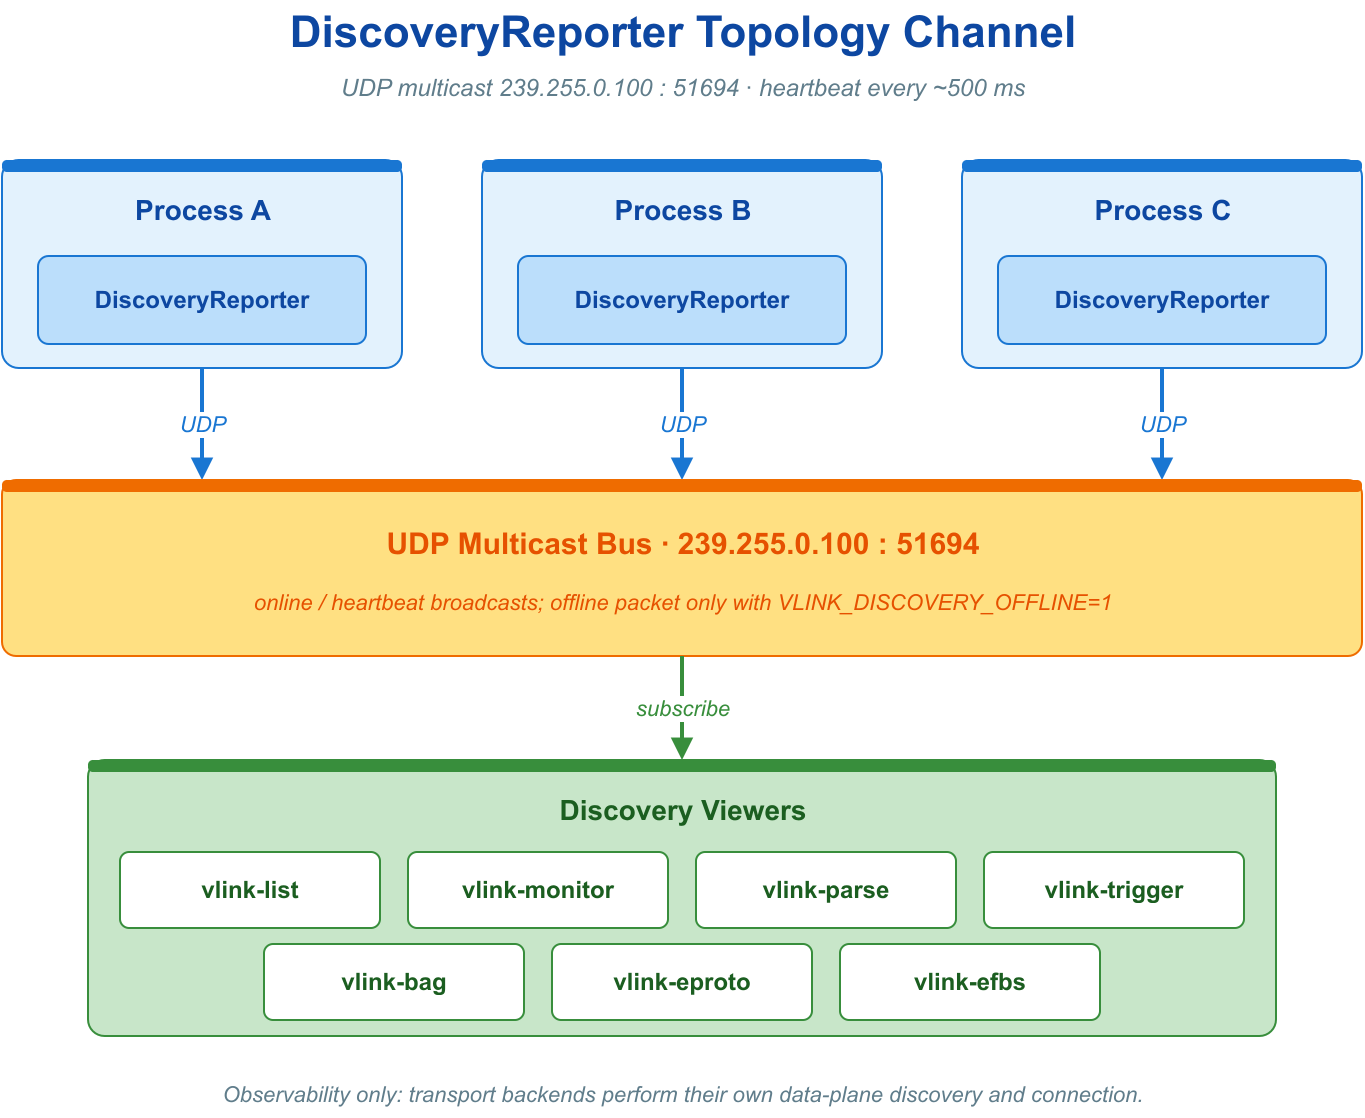
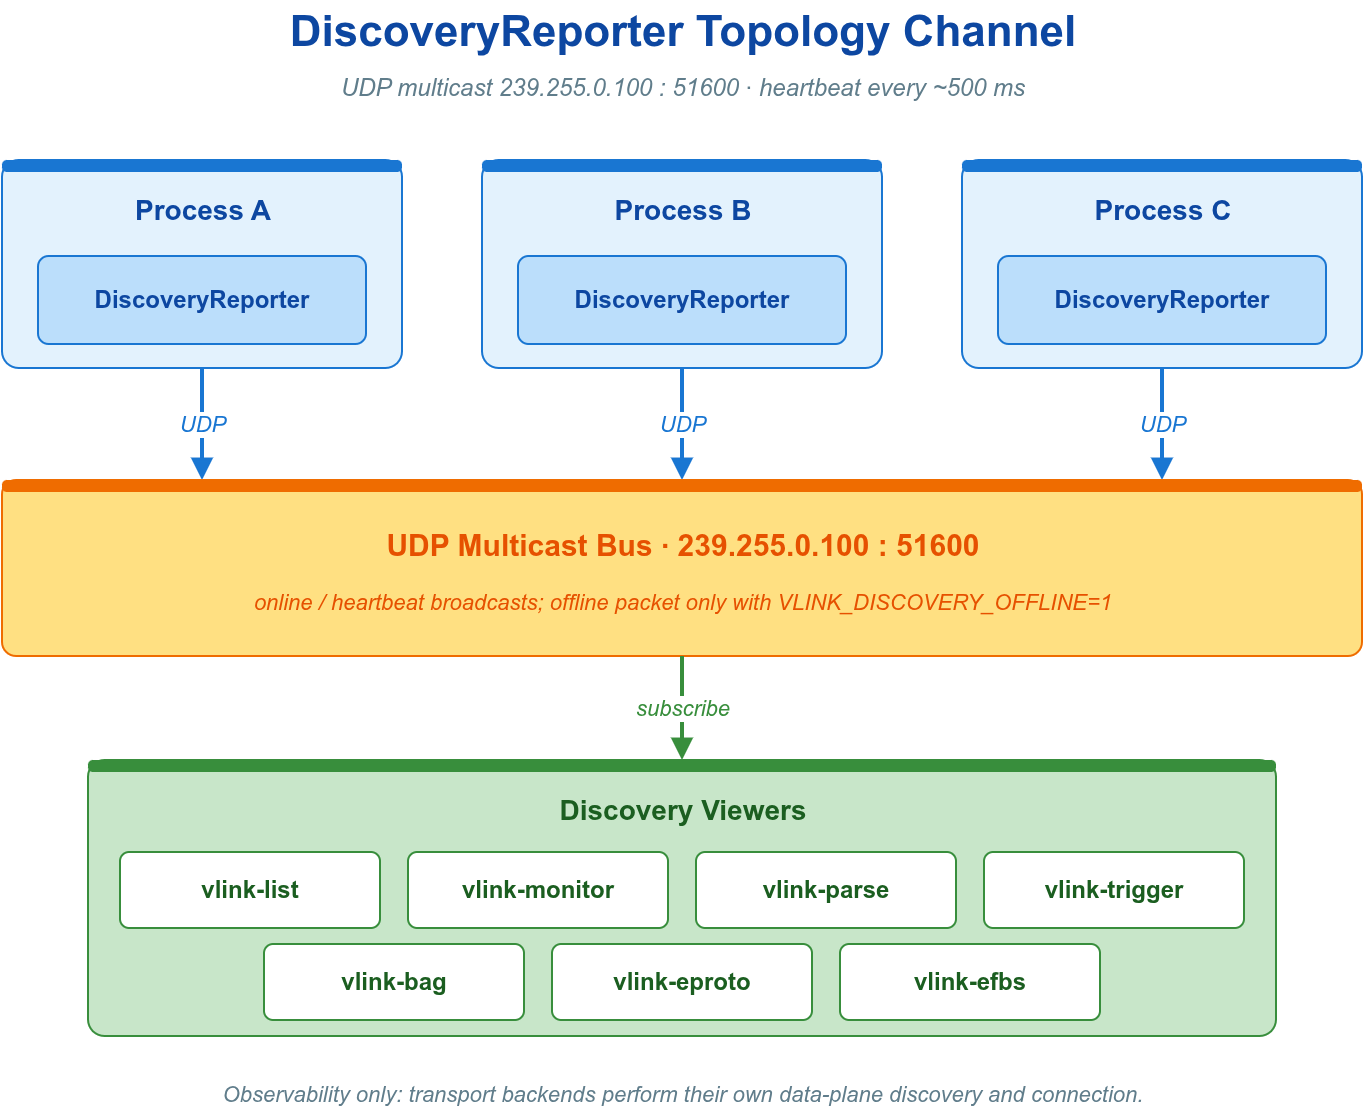
feat(extension): move the discovery base port to 51600
The discovery channel now listens on 51600 + VLINK_DISCOVER_DOMAIN
instead of 51694 + domain. Processes built before this change no longer
see each other, and domain 94 coincides with the old default port, so
upgrade every process together and update firewall rules.

diff --git a/.github/wiki/assets/js/main.js b/.github/wiki/assets/js/main.js
@@ -710,7 +710,7 @@ int main() {
     ['VLINK_DISCOVER_DISABLE', '', 'Disables the system discovery feature when set to true.', false],
     ['VLINK_DISCOVER_NATIVE', '', 'Restricts discovery to localhost only.', false],
     ['VLINK_DISCOVER_IP', '', 'Local IPv4 addresses for discovery multicast (comma or space separated); empty sends and joins through the system route.', false],
-    ['VLINK_DISCOVER_DOMAIN', '', 'Discovery domain (0 to 255, default 0) isolating the discovery channel: the UDP port becomes 51694 plus the domain while the multicast address and its route stay unchanged. Must match on every process.', false],
+    ['VLINK_DISCOVER_DOMAIN', '', 'Discovery domain (0 to 255, default 0) isolating the discovery channel: the UDP port becomes 51600 plus the domain while the multicast address and its route stay unchanged. Must match on every process.', false],
     ['VLINK_PROFILER_ENABLE', '', 'Enables the system profiler feature when set to true.', false],
     ['VLINK_QOS_CONFIG', '', 'Path to the configuration file for Quality of Service (QoS) settings.', false],
     ['VLINK_URL_PLUGINS', '', 'Before first URL initialization: auto enables on-demand recognized shared transports; none or empty disables plugins; other non-empty values are explicit preload lists (auto/none are case-insensitive).', false],

diff --git a/languages/python_api/test/test_vlink_full.py b/languages/python_api/test/test_vlink_full.py
@@ -1989,7 +1989,7 @@ def test_discovery_viewer_fields():
     domain = _vlink.DiscoveryViewer.get_listen_domain()
     assert isinstance(domain, int)
     assert 0 <= domain <= 255
-    assert _vlink.DiscoveryViewer.get_listen_port() == 51694 + domain
+    assert _vlink.DiscoveryViewer.get_listen_port() == 51600 + domain
 
     print("[PASS] DiscoveryViewer fields")
 
@@ -2036,7 +2036,7 @@ import vlink
 
 expected = int(sys.argv[1])
 assert vlink.DiscoveryViewer.get_listen_domain() == expected, vlink.DiscoveryViewer.get_listen_domain()
-assert vlink.DiscoveryViewer.get_listen_port() == 51694 + expected, vlink.DiscoveryViewer.get_listen_port()
+assert vlink.DiscoveryViewer.get_listen_port() == 51600 + expected, vlink.DiscoveryViewer.get_listen_port()
 assert vlink.DiscoveryViewer.get_listen_address() == "239.255.0.100"
 '''
     cases = [("7", 7), ("0", 0), ("255", 255), ("256", 0), ("-1", 0), ("abc", 0), ("1 ", 0), ("", 0)]

diff --git a/cli/check/check_env.cc b/cli/check/check_env.cc
@@ -118,7 +118,7 @@ int check_env(bool available_case, const std::string& prefix) {
        "address and the viewer joins the group on each. Empty sends and joins through the system route.",
        false},
       {"VLINK_DISCOVER_DOMAIN", "",
-       "Discovery domain (0 to 255, default 0) isolating the discovery channel: the UDP port becomes 51694 plus the "
+       "Discovery domain (0 to 255, default 0) isolating the discovery channel: the UDP port becomes 51600 plus the "
        "domain while the multicast address and its route stay unchanged. Must match on every process.",
        false},
       {"VLINK_PROFILER_ENABLE", "",

diff --git a/src/extension/discovery_viewer.cc b/src/extension/discovery_viewer.cc
@@ -80,7 +80,7 @@ static constexpr SocketHandle kInvalidSocket = -1;
 [[maybe_unused]] static constexpr int kReportTimeout = kReportInterval * 4;
 [[maybe_unused]] static constexpr size_t kMaxTaskSize = 50000U;
 [[maybe_unused]] static constexpr uint32_t kMaxElapsedTime = 1000;
-[[maybe_unused]] static constexpr int kBroadcastBasePort = 51694;
+[[maybe_unused]] static constexpr int kBroadcastBasePort = 51600;
 [[maybe_unused]] static constexpr size_t kBufferSize = 1024 * 1024U;
 [[maybe_unused]] static constexpr size_t kMaxBatchSize = 64U;
 [[maybe_unused]] static constexpr uint32_t kMaxDiscoveryDomain = 255U;

diff --git a/test/extension/discovery_test.cc b/test/extension/discovery_test.cc
@@ -51,7 +51,7 @@ TEST_SUITE("extension-DiscoveryViewer") {
 
   TEST_CASE("get_listen_port is shifted by the discovery domain") {
     CHECK_EQ(DiscoveryViewer::get_listen_port(),
-             static_cast<uint16_t>(51694 + static_cast<int>(DiscoveryViewer::get_listen_domain())));
+             static_cast<uint16_t>(51600 + static_cast<int>(DiscoveryViewer::get_listen_domain())));
   }
 
   TEST_CASE("convert_type maps all known role tokens") {

diff --git a/CHANGELOG.md b/CHANGELOG.md
@@ -10,7 +10,7 @@
 - **Bag 分包轮转**：`BagWriter::Config` 与 `vlink-bag record` 新增 `max_split_count`，超限时删除最旧分包。
 - **DDS 非阻塞发送**：新增 `VLINK_DDS_NOBLOCK` 与节点属性 `dds.noblock`，支持发送缓冲区满时丢包而不阻塞。
 - **发现多网卡**：新增 `VLINK_DISCOVER_IP`，DiscoveryReporter 逐地址发送、DiscoveryViewer 逐地址加入发现组播；未设置时收发仍按系统路由走。
-- **发现域隔离**：新增 `VLINK_DISCOVER_DOMAIN`（0–255，默认 0），发现端口取 `51694 + domain`。
+- **发现域隔离**：新增 `VLINK_DISCOVER_DOMAIN`（0–255，默认 0），发现端口取 `51600 + domain`。
 - **日志 PID 隔离**：新增 `VLINK_LOG_PID_ENABLE`，置 `1` 时默认日志目录追加 `<PID>` 子目录，同名多实例不再共享轮转文件集；默认关闭，目录布局与旧版本一致。
 
 ### 改进
@@ -26,6 +26,7 @@
 - **发现热路径**：收包批量投递，快照仅在内容变化时重建，上报按 500ms 节流。
 - **日志热路径**：减少重复初始化检查，回溯回调交换复用缓冲以消除逐条拷贝。
 - **日志环境变量**：`VLINK_LOG_ENABLE_UTC` 更名为 `VLINK_LOG_UTC_ENABLE`，语义不变；旧名不再识别，部署环境须同步更新。
+- **发现端口**：发现通道 UDP 基础端口由 `51694` 改为 `51600`（实际端口为 `51600 + VLINK_DISCOVER_DOMAIN`）；新旧版本进程互不发现，须同批升级并同步防火墙规则；域 `94` 的端口与旧版本默认端口重合，滚动升级期间避免使用。
 - **内存池热路径**：free-list 分片数按硬件并发度取值，消除超过 8 线程后的吞吐崩塌；命中与释放计数移入分片锁内，去掉每次分配的原子累加；直通与超大块路径在默认对齐下改用普通 `operator new`，计数按线程条带化，全哨兵配置跳过档位扫描。
 - **内存池回收**：`trim()` 改为锁外分组，不再毫秒级阻塞并发分配。
 - **内存池档位**：新增 `VLINK_MEMORY_LAZY_SCALE=1` / `MemoryPool::Config::lazy_scale`（默认关闭），开启后懒增长单次安装上限随档位配额放大；`Config` 新增字段，使用它的外部 C++ 二进制需重新构建。

diff --git a/doc/14-reference.md b/doc/14-reference.md
@@ -297,7 +297,7 @@ if (pub.is_support_loan()) {
 | `VLINK_DISCOVER_DISABLE` | 置 `1` 关闭运行时发现上报 |
 | `VLINK_DISCOVER_NATIVE` | 置 `1` 仅限本机发现 |
 | `VLINK_DISCOVER_IP` | 发现组播使用的本机 IPv4 地址列表（多值以逗号或空格分隔；未设置时收发按系统路由走），同时是 `VLINK_DDS_IP` 的缺省值 |
-| `VLINK_DISCOVER_DOMAIN` | 发现域（`0`–`255`，默认 `0`）：UDP 端口取 `51694 + domain`，组播地址不变，所有进程须一致 |
+| `VLINK_DISCOVER_DOMAIN` | 发现域（`0`–`255`，默认 `0`）：UDP 端口取 `51600 + domain`，组播地址不变，所有进程须一致 |
 | `VLINK_PROTO_DIR` / `VLINK_FBS_DIR` | 动态 schema 目录（`vlink-eproto`/`-efbs`） |
 | `VLINK_FASTBUFFER_PLUGIN` | 首次构造 FastBuffer 时加载的插件名或路径；未设置或空值使用普通 CPU 内存，`shm` 使用可跨进程共享的 CPU 内存 |
 | `VLINK_URL_PLUGINS` | 首次 URL 初始化前设置：完整值 `auto` 按需加载未链接的已知共享 transport，`none` / 空值关闭插件加载，其他非空值为显式预加载列表；模式值大小写不敏感 |
@@ -468,7 +468,7 @@ sub.listen([](const MyMsg& msg) { VLOG_I("received"); });
 
 | 环节 | 确认方法与处置 |
 | --- | --- |
-| 防火墙 | 按后端放行实际数据与发现端口；若仅拓扑工具不可见，再检查 `239.255.0.100` 的发现端口（`51694 + VLINK_DISCOVER_DOMAIN`，默认 `51694`） |
+| 防火墙 | 按后端放行实际数据与发现端口；若仅拓扑工具不可见，再检查 `239.255.0.100` 的发现端口（`51600 + VLINK_DISCOVER_DOMAIN`，默认 `51600`） |
 | 网卡多播标记 | `ip link show eth0 \| grep MULTICAST` 应含 `MULTICAST` |
 | 容器网络 | `--net=host` 可用于区分 bridge/NAT 问题；需要的端口与多播取决于所用后端 |
 | 容器共享内存 | `/dev/shm` 默认 64 MB，`shm://` 易失败，启动加 `--shm-size=2g` |

diff --git a/doc/12-observability.md b/doc/12-observability.md
@@ -91,7 +91,7 @@ auto snapshot = viewer.get_info_list();
 | `convert_type(std::string_view str)` | 将角色字符串（`"Pub"`、`"Sub"` 等）转回 `ImplType` 位 |
 | `get_listen_address()` | 返回发现子系统使用的 UDP 组播/广播地址（默认 `239.255.0.100`） |
 | `get_listen_domain()` | 返回 `VLINK_DISCOVER_DOMAIN` 选定的发现域（默认 `0`） |
-| `get_listen_port()` | 返回发现子系统使用的 UDP 端口（`51694 + domain`） |
+| `get_listen_port()` | 返回发现子系统使用的 UDP 端口（`51600 + domain`） |
 
 ---
 
@@ -243,7 +243,7 @@ sub->register_status_handler([](const vlink::Status::BasePtr& status) {
 | `VLINK_DISCOVER_DISABLE=1` | 禁用本进程的发现上报 |
 | `VLINK_DISCOVER_NATIVE=1` | 仅限本机发现（组播绑定 loopback） |
 | `VLINK_DISCOVER_IP=<ip,...>` | 指定发现组播逐地址发送与加组的本机 IPv4 地址；未设置时收发按系统路由走；同时是 `VLINK_DDS_IP` 的缺省值 |
-| `VLINK_DISCOVER_DOMAIN=<0-255>` | 发现域，默认 `0`：UDP 端口取 `51694 + domain`，组播地址与路由不变；须在所有进程上设为同一值；非十进制数字或超出 `[0,255]` 的值会告警并回落到 `0`，该值在进程内读取一次，此后修改无效 |
+| `VLINK_DISCOVER_DOMAIN=<0-255>` | 发现域，默认 `0`：UDP 端口取 `51600 + domain`，组播地址与路由不变；须在所有进程上设为同一值；非十进制数字或超出 `[0,255]` 的值会告警并回落到 `0`，该值在进程内读取一次，此后修改无效 |
 | `VLINK_PROFILER_ENABLE=1` | 启用 CPU Profiler，使 `Process::profiler` 有效 |
 
 若需让单个节点不出现在发现视图，可在 `init()` 之前关闭其上报。这要求节点以延迟初始化方式构造：

diff --git a/doc/13-integration.md b/doc/13-integration.md
@@ -1054,7 +1054,7 @@ export VLINK_LOG_DIR=/var/log/vlink
 | `VLINK_DISCOVER_DISABLE` | `1`/`0` | `0` | `=1` 关闭节点发现，减少 UDP 广播开销 |
 | `VLINK_DISCOVER_NATIVE` | `1`/`0` | `0` | `=1` 仅发现本机节点，组播绑定到 `127.0.0.1` |
 | `VLINK_DISCOVER_IP` | IP 列表 | 空 | 发现组播使用的本机 IPv4 地址列表（逗号或空格分隔）：Reporter 逐地址发送、Viewer 逐地址加组；空值时 Reporter 与 Viewer 都按系统路由走；同时是 `VLINK_DDS_IP` 的缺省值，只限制发现请用 `VLINK_DISCOVER_NATIVE=1` |
-| `VLINK_DISCOVER_DOMAIN` | `0`–`255` | `0` | 发现域：UDP 端口取 `51694 + domain` 以隔离发现通道，组播地址与路由不变；须在所有进程上设为同一值；非十进制数字或超出 `[0,255]` 的值会告警并回落到 `0`；该值在进程内读取一次，此后修改无效 |
+| `VLINK_DISCOVER_DOMAIN` | `0`–`255` | `0` | 发现域：UDP 端口取 `51600 + domain` 以隔离发现通道，组播地址与路由不变；须在所有进程上设为同一值；非十进制数字或超出 `[0,255]` 的值会告警并回落到 `0`；该值在进程内读取一次，此后修改无效 |
 | `VLINK_PROFILER_ENABLE` | `1`/`0` | `0` | `=1` 启用内置 CPU 性能分析 |
 
 ### 🛰 13.23 DDS 传输
